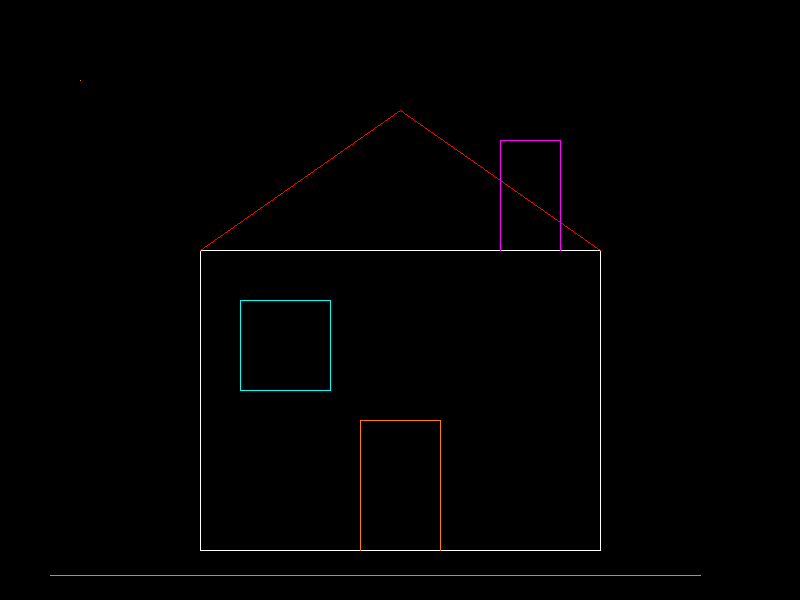
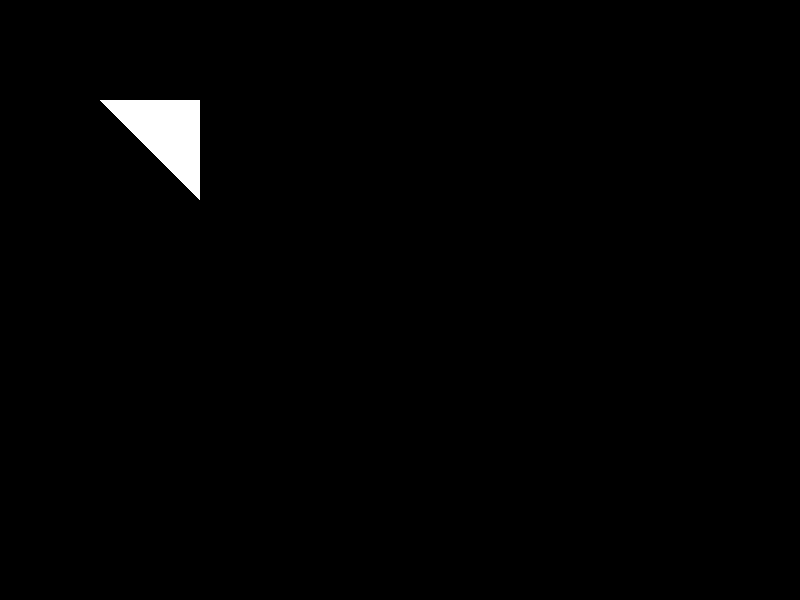
feat: implement software triangle filling with AABB clipping

Changed region(s): [[0.125, 0.15, 0.25, 0.33], [0.7188, 0.39, 0.75, 0.42], [0.25, 0.39, 0.2812, 0.42]]

diff --git a/DreamEngine/Rendering/Software/RenderSoftWare.cpp b/DreamEngine/Rendering/Software/RenderSoftWare.cpp
@@ -1,7 +1,13 @@
 #include "RenderSoftWare.h"
 
+#include <algorithm>
+#include <chrono>
+#include <cmath>
+
 #include "../../Core/Color/SColor.h"
 #include "../../Core/Image/ImageUtil.h"
+#include "../../Core/Math/MathUtil.h"
+#include "../../Core/Math/AABB2D.h"
 
 // CPU版软光栅器
 
@@ -15,7 +21,9 @@ void RenderSoftWare::Draw()
     
     // 清屏幕
     frame_buffer.Clear(SColor::Black());
-    DrawHouse();
+    //DrawHouse();
+
+    DrawFilledTriangle({100,100},{200,100},{200,200},SColor::White());
     Present();
 }
 
@@ -382,6 +390,45 @@ void RenderSoftWare::DrawLineBresenham_5(Vector2D start, Vector2D end, SColor co
 void RenderSoftWare::DrawTriangle(Vector2D a, Vector2D b, Vector2D c)
 {
     
+}
+
+void RenderSoftWare::DrawFilledTriangle(Vector2D A, Vector2D B, Vector2D C, SColor color)
+{
+    // 面积为0的三角形不画，直接return 掉
+    const float are2 = MathUtil::Area2D(A, B, C);
+    if (are2 == 0.0f)
+    {
+        return;
+    }
+    
+    // 历一下周围像素，在三角形内的，点亮，三角形外的，不处理 可以使用AABB包围盒减少遍历范围
+    // 如果像素中点在三角形内，则该像素点亮
+    const int width  = frame_buffer.GetWidth();
+    const int height = frame_buffer.GetHeight();
+
+    const AABB2D aabb(A, B, C);
+
+    const int min_x = std::max(0, static_cast<int>(std::floor(aabb.Min.X)));
+    const int max_x = std::min(width  - 1, static_cast<int>(std::ceil(aabb.Max.X)));
+    const int min_y = std::max(0, static_cast<int>(std::floor(aabb.Min.Y)));
+    const int max_y = std::min(height - 1, static_cast<int>(std::ceil(aabb.Max.Y)));
+
+    const Triangle2D triangle(A, B, C);
+    for (int x = min_x; x <= max_x; ++x)
+    {
+        for (int y = min_y; y <= max_y; ++y)
+        {
+            // 判断每个像素中点是否在像素中
+            const Vector2D point(static_cast<float>(x)+0.5f, static_cast<float>(y)+0.5f);
+            
+            if (MathUtil::IsPointInTriangle(point, triangle))
+            {
+                frame_buffer.SetPixel(x, y, color);
+            }
+        }
+    }
+    
+
 }
 
 void RenderSoftWare::Present()

diff --git a/DreamEngine/Rendering/Software/RenderSoftWare.h b/DreamEngine/Rendering/Software/RenderSoftWare.h
@@ -11,6 +11,21 @@ public:
     
     // 画线
     void DrawLine(Vector2D start, Vector2D end,SColor color);
+
+    // 画三角形
+    void DrawTriangle(Vector2D A, Vector2D B, Vector2D C);
+
+    // 画实心三角形
+    void DrawFilledTriangle(Vector2D A, Vector2D B, Vector2D C, SColor color);
+    
+    void Present();
+
+private:
+    FrameBuffer frame_buffer;
+
+    // 综合测试场景：小房子，用于肉眼验证画线的各种边界情况
+    void DrawHouse();
+    
     // DDA 画线法，相当于以最小像素点为单位，取长边一步一步迭代，四舍五入取对应点。
     void DrawLineDDA(Vector2D start, Vector2D end, SColor color);
 
@@ -18,18 +33,7 @@ public:
     {
         DrawLineBresenham_5(start,end,color);
     }
-
-    // 画三角形
-    void DrawTriangle(Vector2D A, Vector2D B, Vector2D C);
-
-    // 综合测试场景：小房子，用于肉眼验证画线的各种边界情况
-    void DrawHouse();
-
-    void Present();
-
-private:
-    FrameBuffer frame_buffer;
-
+    
     // —— 以下 5 个版本为 Bresenham 算法的迭代实现，耗时为实测数据 ——
     // 测试条件：DrawHouse 场景 20 条线段（水平/垂直/斜线/单点 + 两条跨屏长斜线），
     // 每版本绘制 30000 轮、重复 5 次取最优；MSVC 2022 x64，分别测 Release /O2 与 Debug /Od。

diff --git a/DreamEngine/Core/Math/MathUtil.cpp b/DreamEngine/Core/Math/MathUtil.cpp
@@ -1,0 +1,36 @@
+#include "MathUtil.h"
+
+
+// 2D叉积：v1 × v2 = v1.X * v2.Y - v1.Y * v2.X
+// 符号表示v2相对v1的转向：>0 逆时针一侧，<0 顺时针一侧，=0 共线
+static float Cross2D(const Vector2D& v1, const Vector2D& v2)
+{
+    return v1.X * v2.Y - v1.Y * v2.X;
+}
+
+bool MathUtil::IsPointInTriangle(const Vector2D& point, const Triangle2D& tri)
+{
+    // 点在三角形内 <=> 点在三条边AB、BC、CA的同一侧
+    // 即三个叉积同号（全>=0或全<=0，兼容顺/逆时针绕序）
+    Vector2D ab(tri.p1.X - tri.p0.X, tri.p1.Y - tri.p0.Y);
+    Vector2D ap(point.X - tri.p0.X, point.Y - tri.p0.Y);
+    float crossAB = Cross2D(ab, ap);
+
+    Vector2D bc(tri.p2.X - tri.p1.X, tri.p2.Y - tri.p1.Y);
+    Vector2D bp(point.X - tri.p1.X, point.Y - tri.p1.Y);
+    float crossBC = Cross2D(bc, bp);
+
+    Vector2D ca(tri.p0.X - tri.p2.X, tri.p0.Y - tri.p2.Y);
+    Vector2D cp(point.X - tri.p2.X, point.Y - tri.p2.Y);
+    float crossCA = Cross2D(ca, cp);
+
+    return (crossAB >= 0 && crossBC >= 0 && crossCA >= 0)
+        || (crossAB <= 0 && crossBC <= 0 && crossCA <= 0);
+}
+
+float MathUtil::Area2D(const Vector2D& a, const Vector2D& b, const Vector2D& c)
+{
+    // 叉乘求面积
+    const float area = ((b.X - a.X) * (c.Y - a.Y) - (c.X - a.X) * (b.Y - a.Y)) * 0.5f;
+    return std::abs(area);
+}

diff --git a/DreamEngine/Core/Math/AABB2D.cpp b/DreamEngine/Core/Math/AABB2D.cpp
@@ -1,0 +1,11 @@
+#include "AABB2D.h"
+
+#include <algorithm>
+
+AABB2D::AABB2D() : Min(0.0f, 0.0f), Max(0.0f, 0.0f) {}
+
+AABB2D::AABB2D(const Vector2D& a, const Vector2D& b, const Vector2D& c)
+    : Min(std::min(std::min(a.X, b.X), c.X), std::min(std::min(a.Y, b.Y), c.Y))
+    , Max(std::max(std::max(a.X, b.X), c.X), std::max(std::max(a.Y, b.Y), c.Y))
+{
+}

diff --git a/DreamEngine/Core/Math/MathUtil.h b/DreamEngine/Core/Math/MathUtil.h
@@ -1,0 +1,11 @@
+#pragma once
+#include "Triangle2D.h"
+#include "Vector2D.h"
+#include <cmath>
+
+class MathUtil
+{
+public:
+    static bool IsPointInTriangle(const Vector2D& point, const Triangle2D& tri);
+    static float Area2D(const Vector2D& a, const Vector2D& b, const Vector2D& c);
+};

diff --git a/DreamEngine/Core/Math/AABB2D.h b/DreamEngine/Core/Math/AABB2D.h
@@ -1,0 +1,13 @@
+#pragma once
+#include "Vector2D.h"
+
+struct AABB2D
+{
+public:
+    Vector2D Min;
+    Vector2D Max;
+
+    AABB2D();
+    AABB2D(const Vector2D& min, const Vector2D& max) : Min(min), Max(max) {}
+    AABB2D(const Vector2D& a, const Vector2D& b, const Vector2D& c);
+};

diff --git a/DreamEngine/Core/Math/Triangle2D.h b/DreamEngine/Core/Math/Triangle2D.h
@@ -1,0 +1,10 @@
+#pragma once
+#include "Vector2D.h"
+
+struct Triangle2D
+{
+    Vector2D p0, p1, p2;
+
+    Triangle2D();
+    Triangle2D(const Vector2D& p0, const Vector2D& p1, const Vector2D& p2) : p0(p0), p1(p1), p2(p2) {}
+};

diff --git a/DreamEngine/Core/Math/Vector2D.h b/DreamEngine/Core/Math/Vector2D.h
@@ -1,6 +1,6 @@
 #pragma once
 
-// 这里面要支持 int + int  float+flaot int + float 等多种组合，
+// 这里面要支持 int + int  float+flaot int
 struct Vector2D
 {
 public:

diff --git a/DreamEngine/Core/Math/Triangle3D.h b/DreamEngine/Core/Math/Triangle3D.h
@@ -1,0 +1,7 @@
+#pragma once
+#include "Vector3D.h"
+
+struct Triangle3D
+{
+    Vector3D p0, p1, p2;
+};

diff --git a/DreamEngine/Core/Math/Primitives.h b/DreamEngine/Core/Math/Primitives.h
@@ -1,0 +1,4 @@
+#pragma once
+#include "AABB2D.h"
+#include "Vector2D.h"
+#include "Vector3D.h"

diff --git a/DreamEngine/Core/Math/Triangle2D.cpp b/DreamEngine/Core/Math/Triangle2D.cpp
@@ -1,0 +1,1 @@
+#include "Triangle2D.h"

diff --git a/DreamEngine/Core/Math/Triangle3D.cpp b/DreamEngine/Core/Math/Triangle3D.cpp
@@ -1,0 +1,1 @@
+#include "Triangle3D.h"
